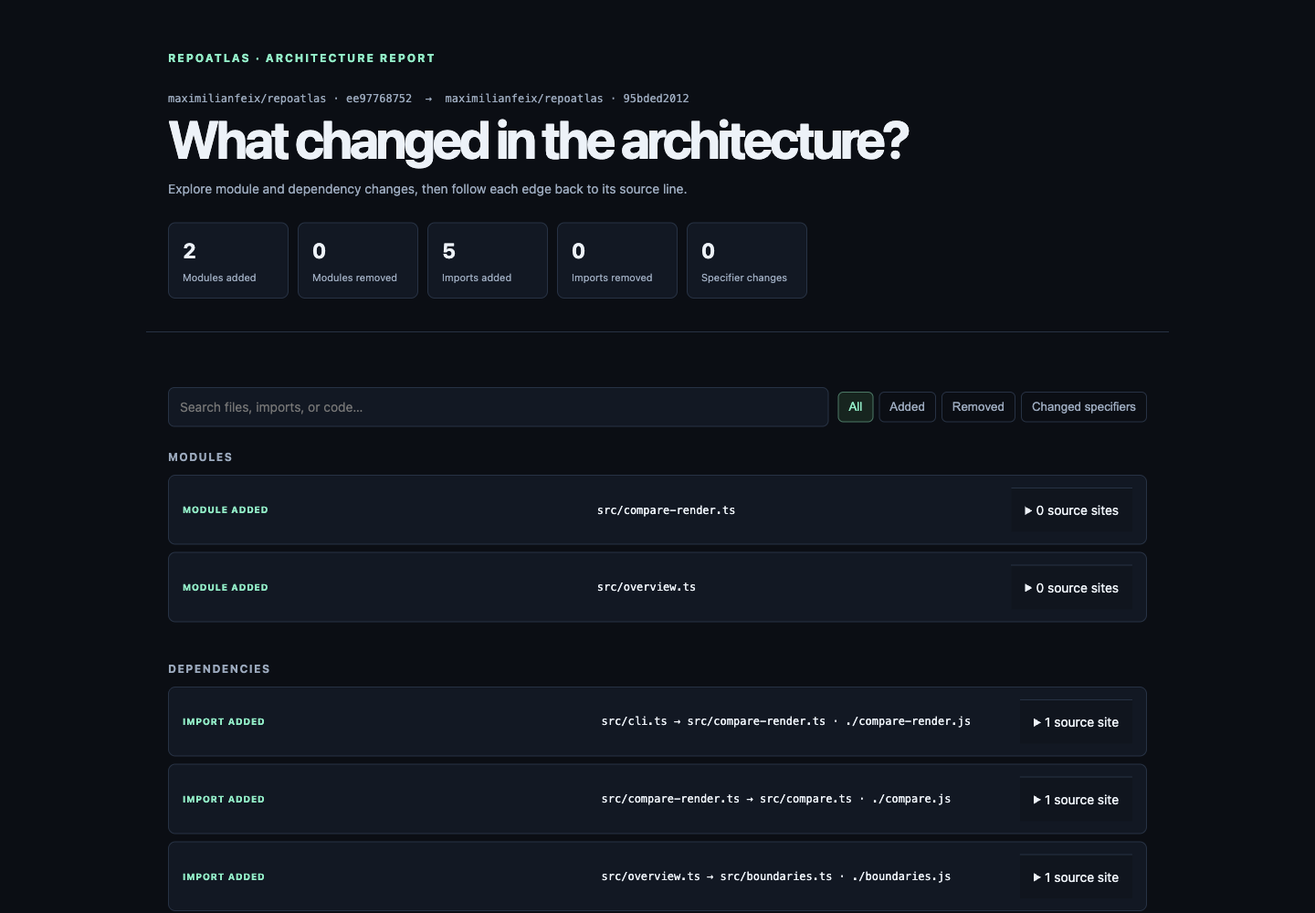
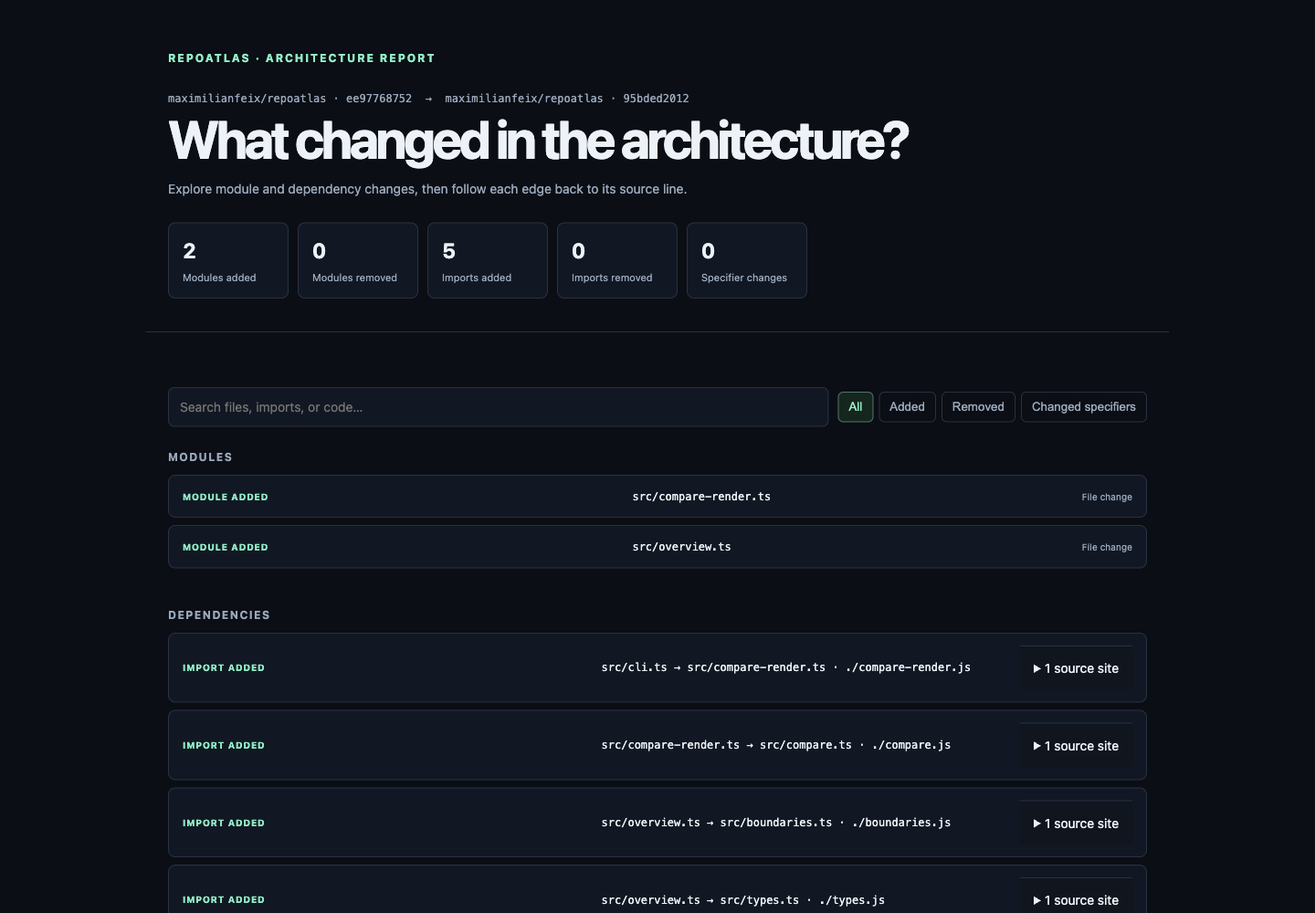
fix: label module-only changes in HTML diffs

diff --git a/docs/examples/repoatlas-v1-to-v2.html b/docs/examples/repoatlas-v1-to-v2.html
@@ -1,5 +1,5 @@
 <!doctype html><html lang="en"><head><meta charset="utf-8"><meta name="viewport" content="width=device-width,initial-scale=1"><meta name="color-scheme" content="dark"><title>Architecture diff · maximilianfeix/repoatlas</title><style>
-:root{color-scheme:dark;--bg:#0b0e14;--panel:#121823;--line:#273244;--text:#edf2f8;--muted:#9ba9bd;--mint:#92edc7;--red:#ff9b90;--amber:#e8c17b}*{box-sizing:border-box}body{margin:0;background:var(--bg);color:var(--text);font:14px/1.55 ui-sans-serif,system-ui,sans-serif}header,main{max-width:1120px;margin:auto;padding:32px 24px}header{padding-top:54px;border-bottom:1px solid var(--line)}.brand{color:var(--mint);font-size:12px;font-weight:750;letter-spacing:.16em;text-transform:uppercase}.eyebrow{margin:28px 0 8px;color:var(--muted);font:12px ui-monospace,monospace}h1{max-width:820px;margin:0;font-size:clamp(32px,6vw,58px);line-height:1.02;letter-spacing:-.055em}header p{color:var(--muted)}.stats{display:flex;gap:10px;flex-wrap:wrap;margin:26px 0 4px}.stat{padding:12px 15px;border:1px solid var(--line);border-radius:8px;background:var(--panel);min-width:132px}.stat strong{display:block;font-size:23px;font-variant-numeric:tabular-nums}.stat span{color:var(--muted);font-size:11px}.toolbar{display:flex;gap:10px;flex-wrap:wrap;align-items:center;margin:28px 0 18px}.toolbar input,.toolbar select{padding:10px 12px;border:1px solid var(--line);border-radius:7px;background:var(--panel);color:var(--text);font:inherit}.toolbar input{flex:1;min-width:220px}.filters{display:flex;gap:6px;flex-wrap:wrap}.filters button{padding:8px 11px;border:1px solid var(--line);border-radius:6px;background:transparent;color:var(--muted);cursor:pointer}.filters button[aria-pressed=true]{border-color:#4c7966;background:#17251f;color:var(--mint)}.section{margin:24px 0 42px}.section h2{font-size:12px;color:var(--muted);letter-spacing:.12em;text-transform:uppercase}.change-list{display:grid;gap:8px}.change{display:grid;grid-template-columns:minmax(180px,1fr) minmax(150px,1fr) auto;gap:14px;align-items:center;padding:13px 15px;border:1px solid var(--line);border-radius:8px;background:var(--panel)}.change code,.source code{font:12px/1.6 ui-monospace,SFMono-Regular,monospace;overflow-wrap:anywhere}.change a{color:var(--mint);text-decoration:none}.change a:hover{text-decoration:underline}.tag{font-size:10px;font-weight:750;letter-spacing:.08em;text-transform:uppercase;color:var(--mint)}.tag.removed{color:var(--red)}.tag.changed{color:var(--amber)}details{border-top:1px solid var(--line);padding:13px 15px;margin:0;background:#10151e}details summary{cursor:pointer;color:var(--text)}.source{display:grid;grid-template-columns:minmax(0,1fr) auto;gap:12px;align-items:start;padding:10px 0;border-bottom:1px solid #222b39}.source a{color:var(--mint);font-size:12px}.source pre{margin:6px 0 0;padding:10px;border-radius:5px;background:#080b10;color:#cfe8dc;white-space:pre-wrap;overflow-wrap:anywhere;font:11px/1.6 ui-monospace,monospace}.empty{padding:24px;border:1px dashed var(--line);border-radius:8px;color:var(--muted)}footer{max-width:1120px;margin:auto;padding:0 24px 32px;color:var(--muted);font-size:12px}@media(max-width:650px){header,main{padding-left:16px;padding-right:16px}.change{grid-template-columns:1fr auto;gap:5px}.change .relation{grid-column:1/-1;grid-row:2}.source{grid-template-columns:1fr}.stat{min-width:calc(50% - 5px)}}
+:root{color-scheme:dark;--bg:#0b0e14;--panel:#121823;--line:#273244;--text:#edf2f8;--muted:#9ba9bd;--mint:#92edc7;--red:#ff9b90;--amber:#e8c17b}*{box-sizing:border-box}body{margin:0;background:var(--bg);color:var(--text);font:14px/1.55 ui-sans-serif,system-ui,sans-serif}header,main{max-width:1120px;margin:auto;padding:32px 24px}header{padding-top:54px;border-bottom:1px solid var(--line)}.brand{color:var(--mint);font-size:12px;font-weight:750;letter-spacing:.16em;text-transform:uppercase}.eyebrow{margin:28px 0 8px;color:var(--muted);font:12px ui-monospace,monospace}h1{max-width:820px;margin:0;font-size:clamp(32px,6vw,58px);line-height:1.02;letter-spacing:-.055em}header p{color:var(--muted)}.stats{display:flex;gap:10px;flex-wrap:wrap;margin:26px 0 4px}.stat{padding:12px 15px;border:1px solid var(--line);border-radius:8px;background:var(--panel);min-width:132px}.stat strong{display:block;font-size:23px;font-variant-numeric:tabular-nums}.stat span{color:var(--muted);font-size:11px}.toolbar{display:flex;gap:10px;flex-wrap:wrap;align-items:center;margin:28px 0 18px}.toolbar input,.toolbar select{padding:10px 12px;border:1px solid var(--line);border-radius:7px;background:var(--panel);color:var(--text);font:inherit}.toolbar input{flex:1;min-width:220px}.filters{display:flex;gap:6px;flex-wrap:wrap}.filters button{padding:8px 11px;border:1px solid var(--line);border-radius:6px;background:transparent;color:var(--muted);cursor:pointer}.filters button[aria-pressed=true]{border-color:#4c7966;background:#17251f;color:var(--mint)}.section{margin:24px 0 42px}.section h2{font-size:12px;color:var(--muted);letter-spacing:.12em;text-transform:uppercase}.change-list{display:grid;gap:8px}.change{display:grid;grid-template-columns:minmax(180px,1fr) minmax(150px,1fr) auto;gap:14px;align-items:center;padding:13px 15px;border:1px solid var(--line);border-radius:8px;background:var(--panel)}.change code,.source code{font:12px/1.6 ui-monospace,SFMono-Regular,monospace;overflow-wrap:anywhere}.change a{color:var(--mint);text-decoration:none}.change a:hover{text-decoration:underline}.tag{font-size:10px;font-weight:750;letter-spacing:.08em;text-transform:uppercase;color:var(--mint)}.tag.removed{color:var(--red)}.tag.changed{color:var(--amber)}.change-meta{font-size:10px;color:var(--muted);text-align:right}details{border-top:1px solid var(--line);padding:13px 15px;margin:0;background:#10151e}details summary{cursor:pointer;color:var(--text)}.source{display:grid;grid-template-columns:minmax(0,1fr) auto;gap:12px;align-items:start;padding:10px 0;border-bottom:1px solid #222b39}.source a{color:var(--mint);font-size:12px}.source pre{margin:6px 0 0;padding:10px;border-radius:5px;background:#080b10;color:#cfe8dc;white-space:pre-wrap;overflow-wrap:anywhere;font:11px/1.6 ui-monospace,monospace}.empty{padding:24px;border:1px dashed var(--line);border-radius:8px;color:var(--muted)}footer{max-width:1120px;margin:auto;padding:0 24px 32px;color:var(--muted);font-size:12px}@media(max-width:650px){header,main{padding-left:16px;padding-right:16px}.change{grid-template-columns:1fr auto;gap:5px}.change .relation{grid-column:1/-1;grid-row:2}.source{grid-template-columns:1fr}.stat{min-width:calc(50% - 5px)}}
 </style></head><body><header><div class="brand">RepoAtlas · Architecture report</div><div class="eyebrow">maximilianfeix/repoatlas · ee97768752 &nbsp;→&nbsp; maximilianfeix/repoatlas · 95bded2012</div><h1>What changed in the architecture?</h1><p>Explore module and dependency changes, then follow each edge back to its source line.</p><div class="stats" id="stats"></div></header><main><div class="toolbar"><input id="search" type="search" aria-label="Search architecture changes" placeholder="Search files, imports, or code…"><div class="filters" role="group" aria-label="Filter changes"><button data-filter="all" aria-pressed="true">All</button><button data-filter="added">Added</button><button data-filter="removed">Removed</button><button data-filter="changed">Changed specifiers</button></div></div><div id="results" aria-live="polite"></div></main><footer>Generated by RepoAtlas · Self-contained HTML · No tracking or network requests</footer><script type="application/json" id="diff-data">{"base":{"name":"maximilianfeix/repoatlas","repository":"https://github.com/maximilianfeix/repoatlas","commit":"ee977687527b806925ff2a31f2311dce65d320ad"},"head":{"name":"maximilianfeix/repoatlas","repository":"https://github.com/maximilianfeix/repoatlas","commit":"95bded201295c1c4b4e2330263fc26060c641073"},"modules":{"added":["src/compare-render.ts","src/overview.ts"],"removed":[]},"dependencies":{"added":[{"source":"src/cli.ts","target":"src/compare-render.ts","specifier":"./compare-render.js","kind":"import","line":11,"code":"import { renderComparisonHtml } from './compare-render.js';","url":"https://github.com/maximilianfeix/repoatlas/blob/95bded201295c1c4b4e2330263fc26060c641073/src/cli.ts#L11","resolution":"internal"},{"source":"src/compare-render.ts","target":"src/compare.ts","specifier":"./compare.js","kind":"type","line":1,"code":"import type { AtlasComparison } from './compare.js';","url":"https://github.com/maximilianfeix/repoatlas/blob/95bded201295c1c4b4e2330263fc26060c641073/src/compare-render.ts#L1","resolution":"internal"},{"source":"src/overview.ts","target":"src/boundaries.ts","specifier":"./boundaries.js","kind":"import","line":1,"code":"import { buildBoundaryMatrix, type BoundaryCell } from './boundaries.js';","url":"https://github.com/maximilianfeix/repoatlas/blob/95bded201295c1c4b4e2330263fc26060c641073/src/overview.ts#L1","resolution":"internal"},{"source":"src/overview.ts","target":"src/types.ts","specifier":"./types.js","kind":"type","line":2,"code":"import type { Edge, Module } from './types.js';","url":"https://github.com/maximilianfeix/repoatlas/blob/95bded201295c1c4b4e2330263fc26060c641073/src/overview.ts#L2","resolution":"internal"},{"source":"src/ui.ts","target":"src/overview.ts","specifier":"./overview.js","kind":"import","line":4,"code":"import { buildArchitectureOverview } from './overview.js';","url":"https://github.com/maximilianfeix/repoatlas/blob/95bded201295c1c4b4e2330263fc26060c641073/src/ui.ts#L4","resolution":"internal"}],"removed":[],"changedSpecifier":[]}}</script><script>
-const data=JSON.parse(document.getElementById('diff-data').textContent);const stats=document.getElementById('stats'),results=document.getElementById('results'),search=document.getElementById('search');let filter='all';const groups=[['Modules added',data.modules.added.length],['Modules removed',data.modules.removed.length],['Imports added',data.dependencies.added.length],['Imports removed',data.dependencies.removed.length],['Specifier changes',data.dependencies.changedSpecifier.length]];for(const [label,count] of groups){const card=document.createElement('div');card.className='stat';const n=document.createElement('strong');n.textContent=count;const caption=document.createElement('span');caption.textContent=label;card.append(n,caption);stats.append(card)}function node(tag,text,cls){const item=document.createElement(tag);if(text!==undefined)item.textContent=text;if(cls)item.className=cls;return item}function source(edge,label){const item=node('div',undefined,'source'),body=node('div'),site=node('code',edge.source+':'+edge.line),code=node('pre',edge.code);body.append(site,code);item.append(body);if(edge.url&&edge.url.startsWith("https://github.com/")){const link=node('a','View source');link.href=edge.url;link.target='_blank';link.rel='noopener noreferrer';item.append(link)}else item.append(node('span',''));return item}function change(type,title,relation,edges){const row=node('article',undefined,'change');row.dataset.type=type;row.dataset.search=(title+' '+relation+' '+edges.map(edge=>edge.source+' '+edge.target+' '+edge.specifier+' '+edge.code).join(' ')).toLowerCase();row.append(node('span',title,'tag '+type),node('code',relation,'relation'));const details=document.createElement('details'),summary=node('summary',edges.length+' source '+(edges.length===1?'site':'sites'));details.append(summary);for(const edge of edges)details.append(source(edge));row.append(details);return row}function render(){results.replaceChildren();const sections=[];const add=(title,items)=>{if(items.length)sections.push([title,items])};const moduleItems=[];for(const id of data.modules.added)moduleItems.push(change('added','Module added',id,[]));for(const id of data.modules.removed)moduleItems.push(change('removed','Module removed',id,[]));add('Modules',moduleItems);const depItems=[];for(const edge of data.dependencies.added)depItems.push(change('added','Import added',edge.source+' → '+edge.target+' · '+edge.specifier,[edge]));for(const edge of data.dependencies.removed)depItems.push(change('removed','Import removed',edge.source+' → '+edge.target+' · '+edge.specifier,[edge]));for(const pair of data.dependencies.changedSpecifier)depItems.push(change('changed','Specifier changed',pair.before.source+' → '+pair.after.target+' · '+pair.before.specifier+' → '+pair.after.specifier,[pair.before,pair.after]));add('Dependencies',depItems);let visible=0;for(const [title,items] of sections){const matching=items.filter(item=>(filter==='all'||item.dataset.type===filter)&&item.dataset.search.includes(search.value.toLowerCase()));if(!matching.length)continue;visible+=matching.length;const section=node('section',undefined,'section');section.append(node('h2',title));const list=node('div',undefined,'change-list');list.append(...matching);section.append(list);results.append(section)}if(!visible)results.append(node('div','No changes match this filter.','empty'))}for(const button of document.querySelectorAll('[data-filter]'))button.addEventListener('click',()=>{filter=button.dataset.filter;for(const item of document.querySelectorAll('[data-filter]'))item.setAttribute('aria-pressed',String(item===button));render()});search.addEventListener('input',render);render();
+const data=JSON.parse(document.getElementById('diff-data').textContent);const stats=document.getElementById('stats'),results=document.getElementById('results'),search=document.getElementById('search');let filter='all';const groups=[['Modules added',data.modules.added.length],['Modules removed',data.modules.removed.length],['Imports added',data.dependencies.added.length],['Imports removed',data.dependencies.removed.length],['Specifier changes',data.dependencies.changedSpecifier.length]];for(const [label,count] of groups){const card=document.createElement('div');card.className='stat';const n=document.createElement('strong');n.textContent=count;const caption=document.createElement('span');caption.textContent=label;card.append(n,caption);stats.append(card)}function node(tag,text,cls){const item=document.createElement(tag);if(text!==undefined)item.textContent=text;if(cls)item.className=cls;return item}function source(edge,label){const item=node('div',undefined,'source'),body=node('div'),site=node('code',edge.source+':'+edge.line),code=node('pre',edge.code);body.append(site,code);item.append(body);if(edge.url&&edge.url.startsWith("https://github.com/")){const link=node('a','View source');link.href=edge.url;link.target='_blank';link.rel='noopener noreferrer';item.append(link)}else item.append(node('span',''));return item}function change(type,title,relation,edges){const row=node('article',undefined,'change');row.dataset.type=type;row.dataset.search=(title+' '+relation+' '+edges.map(edge=>edge.source+' '+edge.target+' '+edge.specifier+' '+edge.code).join(' ')).toLowerCase();row.append(node('span',title,'tag '+type),node('code',relation,'relation'));if(edges.length){const details=document.createElement('details'),summary=node('summary',edges.length+' source '+(edges.length===1?'site':'sites'));details.append(summary);for(const edge of edges)details.append(source(edge));row.append(details)}else row.append(node('span','File change','change-meta'));return row}function render(){results.replaceChildren();const sections=[];const add=(title,items)=>{if(items.length)sections.push([title,items])};const moduleItems=[];for(const id of data.modules.added)moduleItems.push(change('added','Module added',id,[]));for(const id of data.modules.removed)moduleItems.push(change('removed','Module removed',id,[]));add('Modules',moduleItems);const depItems=[];for(const edge of data.dependencies.added)depItems.push(change('added','Import added',edge.source+' → '+edge.target+' · '+edge.specifier,[edge]));for(const edge of data.dependencies.removed)depItems.push(change('removed','Import removed',edge.source+' → '+edge.target+' · '+edge.specifier,[edge]));for(const pair of data.dependencies.changedSpecifier)depItems.push(change('changed','Specifier changed',pair.before.source+' → '+pair.after.target+' · '+pair.before.specifier+' → '+pair.after.specifier,[pair.before,pair.after]));add('Dependencies',depItems);let visible=0;for(const [title,items] of sections){const matching=items.filter(item=>(filter==='all'||item.dataset.type===filter)&&item.dataset.search.includes(search.value.toLowerCase()));if(!matching.length)continue;visible+=matching.length;const section=node('section',undefined,'section');section.append(node('h2',title));const list=node('div',undefined,'change-list');list.append(...matching);section.append(list);results.append(section)}if(!visible)results.append(node('div','No changes match this filter.','empty'))}for(const button of document.querySelectorAll('[data-filter]'))button.addEventListener('click',()=>{filter=button.dataset.filter;for(const item of document.querySelectorAll('[data-filter]'))item.setAttribute('aria-pressed',String(item===button));render()});search.addEventListener('input',render);render();
 </script></body></html>

diff --git a/src/compare-render.ts b/src/compare-render.ts
@@ -7,8 +7,8 @@ const escapeHtml=(value:string)=>value.replace(/&/g,'&amp;').replace(/</g,'&lt;'
 export function renderComparisonHtml(comparison:AtlasComparison):string {
   const data=escapeJson(comparison);
   return `<!doctype html><html lang="en"><head><meta charset="utf-8"><meta name="viewport" content="width=device-width,initial-scale=1"><meta name="color-scheme" content="dark"><title>Architecture diff · ${escapeHtml(comparison.head.name)}</title><style>
-:root{color-scheme:dark;--bg:#0b0e14;--panel:#121823;--line:#273244;--text:#edf2f8;--muted:#9ba9bd;--mint:#92edc7;--red:#ff9b90;--amber:#e8c17b}*{box-sizing:border-box}body{margin:0;background:var(--bg);color:var(--text);font:14px/1.55 ui-sans-serif,system-ui,sans-serif}header,main{max-width:1120px;margin:auto;padding:32px 24px}header{padding-top:54px;border-bottom:1px solid var(--line)}.brand{color:var(--mint);font-size:12px;font-weight:750;letter-spacing:.16em;text-transform:uppercase}.eyebrow{margin:28px 0 8px;color:var(--muted);font:12px ui-monospace,monospace}h1{max-width:820px;margin:0;font-size:clamp(32px,6vw,58px);line-height:1.02;letter-spacing:-.055em}header p{color:var(--muted)}.stats{display:flex;gap:10px;flex-wrap:wrap;margin:26px 0 4px}.stat{padding:12px 15px;border:1px solid var(--line);border-radius:8px;background:var(--panel);min-width:132px}.stat strong{display:block;font-size:23px;font-variant-numeric:tabular-nums}.stat span{color:var(--muted);font-size:11px}.toolbar{display:flex;gap:10px;flex-wrap:wrap;align-items:center;margin:28px 0 18px}.toolbar input,.toolbar select{padding:10px 12px;border:1px solid var(--line);border-radius:7px;background:var(--panel);color:var(--text);font:inherit}.toolbar input{flex:1;min-width:220px}.filters{display:flex;gap:6px;flex-wrap:wrap}.filters button{padding:8px 11px;border:1px solid var(--line);border-radius:6px;background:transparent;color:var(--muted);cursor:pointer}.filters button[aria-pressed=true]{border-color:#4c7966;background:#17251f;color:var(--mint)}.section{margin:24px 0 42px}.section h2{font-size:12px;color:var(--muted);letter-spacing:.12em;text-transform:uppercase}.change-list{display:grid;gap:8px}.change{display:grid;grid-template-columns:minmax(180px,1fr) minmax(150px,1fr) auto;gap:14px;align-items:center;padding:13px 15px;border:1px solid var(--line);border-radius:8px;background:var(--panel)}.change code,.source code{font:12px/1.6 ui-monospace,SFMono-Regular,monospace;overflow-wrap:anywhere}.change a{color:var(--mint);text-decoration:none}.change a:hover{text-decoration:underline}.tag{font-size:10px;font-weight:750;letter-spacing:.08em;text-transform:uppercase;color:var(--mint)}.tag.removed{color:var(--red)}.tag.changed{color:var(--amber)}details{border-top:1px solid var(--line);padding:13px 15px;margin:0;background:#10151e}details summary{cursor:pointer;color:var(--text)}.source{display:grid;grid-template-columns:minmax(0,1fr) auto;gap:12px;align-items:start;padding:10px 0;border-bottom:1px solid #222b39}.source a{color:var(--mint);font-size:12px}.source pre{margin:6px 0 0;padding:10px;border-radius:5px;background:#080b10;color:#cfe8dc;white-space:pre-wrap;overflow-wrap:anywhere;font:11px/1.6 ui-monospace,monospace}.empty{padding:24px;border:1px dashed var(--line);border-radius:8px;color:var(--muted)}footer{max-width:1120px;margin:auto;padding:0 24px 32px;color:var(--muted);font-size:12px}@media(max-width:650px){header,main{padding-left:16px;padding-right:16px}.change{grid-template-columns:1fr auto;gap:5px}.change .relation{grid-column:1/-1;grid-row:2}.source{grid-template-columns:1fr}.stat{min-width:calc(50% - 5px)}}
+:root{color-scheme:dark;--bg:#0b0e14;--panel:#121823;--line:#273244;--text:#edf2f8;--muted:#9ba9bd;--mint:#92edc7;--red:#ff9b90;--amber:#e8c17b}*{box-sizing:border-box}body{margin:0;background:var(--bg);color:var(--text);font:14px/1.55 ui-sans-serif,system-ui,sans-serif}header,main{max-width:1120px;margin:auto;padding:32px 24px}header{padding-top:54px;border-bottom:1px solid var(--line)}.brand{color:var(--mint);font-size:12px;font-weight:750;letter-spacing:.16em;text-transform:uppercase}.eyebrow{margin:28px 0 8px;color:var(--muted);font:12px ui-monospace,monospace}h1{max-width:820px;margin:0;font-size:clamp(32px,6vw,58px);line-height:1.02;letter-spacing:-.055em}header p{color:var(--muted)}.stats{display:flex;gap:10px;flex-wrap:wrap;margin:26px 0 4px}.stat{padding:12px 15px;border:1px solid var(--line);border-radius:8px;background:var(--panel);min-width:132px}.stat strong{display:block;font-size:23px;font-variant-numeric:tabular-nums}.stat span{color:var(--muted);font-size:11px}.toolbar{display:flex;gap:10px;flex-wrap:wrap;align-items:center;margin:28px 0 18px}.toolbar input,.toolbar select{padding:10px 12px;border:1px solid var(--line);border-radius:7px;background:var(--panel);color:var(--text);font:inherit}.toolbar input{flex:1;min-width:220px}.filters{display:flex;gap:6px;flex-wrap:wrap}.filters button{padding:8px 11px;border:1px solid var(--line);border-radius:6px;background:transparent;color:var(--muted);cursor:pointer}.filters button[aria-pressed=true]{border-color:#4c7966;background:#17251f;color:var(--mint)}.section{margin:24px 0 42px}.section h2{font-size:12px;color:var(--muted);letter-spacing:.12em;text-transform:uppercase}.change-list{display:grid;gap:8px}.change{display:grid;grid-template-columns:minmax(180px,1fr) minmax(150px,1fr) auto;gap:14px;align-items:center;padding:13px 15px;border:1px solid var(--line);border-radius:8px;background:var(--panel)}.change code,.source code{font:12px/1.6 ui-monospace,SFMono-Regular,monospace;overflow-wrap:anywhere}.change a{color:var(--mint);text-decoration:none}.change a:hover{text-decoration:underline}.tag{font-size:10px;font-weight:750;letter-spacing:.08em;text-transform:uppercase;color:var(--mint)}.tag.removed{color:var(--red)}.tag.changed{color:var(--amber)}.change-meta{font-size:10px;color:var(--muted);text-align:right}details{border-top:1px solid var(--line);padding:13px 15px;margin:0;background:#10151e}details summary{cursor:pointer;color:var(--text)}.source{display:grid;grid-template-columns:minmax(0,1fr) auto;gap:12px;align-items:start;padding:10px 0;border-bottom:1px solid #222b39}.source a{color:var(--mint);font-size:12px}.source pre{margin:6px 0 0;padding:10px;border-radius:5px;background:#080b10;color:#cfe8dc;white-space:pre-wrap;overflow-wrap:anywhere;font:11px/1.6 ui-monospace,monospace}.empty{padding:24px;border:1px dashed var(--line);border-radius:8px;color:var(--muted)}footer{max-width:1120px;margin:auto;padding:0 24px 32px;color:var(--muted);font-size:12px}@media(max-width:650px){header,main{padding-left:16px;padding-right:16px}.change{grid-template-columns:1fr auto;gap:5px}.change .relation{grid-column:1/-1;grid-row:2}.source{grid-template-columns:1fr}.stat{min-width:calc(50% - 5px)}}
 </style></head><body><header><div class="brand">RepoAtlas · Architecture report</div><div class="eyebrow">${escapeHtml(comparison.base.name)} ${comparison.base.commit?`· ${escapeHtml(comparison.base.commit.slice(0,10))}`:''} &nbsp;→&nbsp; ${escapeHtml(comparison.head.name)} ${comparison.head.commit?`· ${escapeHtml(comparison.head.commit.slice(0,10))}`:''}</div><h1>What changed in the architecture?</h1><p>Explore module and dependency changes, then follow each edge back to its source line.</p><div class="stats" id="stats"></div></header><main><div class="toolbar"><input id="search" type="search" aria-label="Search architecture changes" placeholder="Search files, imports, or code…"><div class="filters" role="group" aria-label="Filter changes"><button data-filter="all" aria-pressed="true">All</button><button data-filter="added">Added</button><button data-filter="removed">Removed</button><button data-filter="changed">Changed specifiers</button></div></div><div id="results" aria-live="polite"></div></main><footer>Generated by RepoAtlas · Self-contained HTML · No tracking or network requests</footer><script type="application/json" id="diff-data">${data}</script><script>
-const data=JSON.parse(document.getElementById('diff-data').textContent);const stats=document.getElementById('stats'),results=document.getElementById('results'),search=document.getElementById('search');let filter='all';const groups=[['Modules added',data.modules.added.length],['Modules removed',data.modules.removed.length],['Imports added',data.dependencies.added.length],['Imports removed',data.dependencies.removed.length],['Specifier changes',data.dependencies.changedSpecifier.length]];for(const [label,count] of groups){const card=document.createElement('div');card.className='stat';const n=document.createElement('strong');n.textContent=count;const caption=document.createElement('span');caption.textContent=label;card.append(n,caption);stats.append(card)}function node(tag,text,cls){const item=document.createElement(tag);if(text!==undefined)item.textContent=text;if(cls)item.className=cls;return item}function source(edge,label){const item=node('div',undefined,'source'),body=node('div'),site=node('code',edge.source+':'+edge.line),code=node('pre',edge.code);body.append(site,code);item.append(body);if(edge.url&&edge.url.startsWith("https://github.com/")){const link=node('a','View source');link.href=edge.url;link.target='_blank';link.rel='noopener noreferrer';item.append(link)}else item.append(node('span',''));return item}function change(type,title,relation,edges){const row=node('article',undefined,'change');row.dataset.type=type;row.dataset.search=(title+' '+relation+' '+edges.map(edge=>edge.source+' '+edge.target+' '+edge.specifier+' '+edge.code).join(' ')).toLowerCase();row.append(node('span',title,'tag '+type),node('code',relation,'relation'));const details=document.createElement('details'),summary=node('summary',edges.length+' source '+(edges.length===1?'site':'sites'));details.append(summary);for(const edge of edges)details.append(source(edge));row.append(details);return row}function render(){results.replaceChildren();const sections=[];const add=(title,items)=>{if(items.length)sections.push([title,items])};const moduleItems=[];for(const id of data.modules.added)moduleItems.push(change('added','Module added',id,[]));for(const id of data.modules.removed)moduleItems.push(change('removed','Module removed',id,[]));add('Modules',moduleItems);const depItems=[];for(const edge of data.dependencies.added)depItems.push(change('added','Import added',edge.source+' → '+edge.target+' · '+edge.specifier,[edge]));for(const edge of data.dependencies.removed)depItems.push(change('removed','Import removed',edge.source+' → '+edge.target+' · '+edge.specifier,[edge]));for(const pair of data.dependencies.changedSpecifier)depItems.push(change('changed','Specifier changed',pair.before.source+' → '+pair.after.target+' · '+pair.before.specifier+' → '+pair.after.specifier,[pair.before,pair.after]));add('Dependencies',depItems);let visible=0;for(const [title,items] of sections){const matching=items.filter(item=>(filter==='all'||item.dataset.type===filter)&&item.dataset.search.includes(search.value.toLowerCase()));if(!matching.length)continue;visible+=matching.length;const section=node('section',undefined,'section');section.append(node('h2',title));const list=node('div',undefined,'change-list');list.append(...matching);section.append(list);results.append(section)}if(!visible)results.append(node('div','No changes match this filter.','empty'))}for(const button of document.querySelectorAll('[data-filter]'))button.addEventListener('click',()=>{filter=button.dataset.filter;for(const item of document.querySelectorAll('[data-filter]'))item.setAttribute('aria-pressed',String(item===button));render()});search.addEventListener('input',render);render();
+const data=JSON.parse(document.getElementById('diff-data').textContent);const stats=document.getElementById('stats'),results=document.getElementById('results'),search=document.getElementById('search');let filter='all';const groups=[['Modules added',data.modules.added.length],['Modules removed',data.modules.removed.length],['Imports added',data.dependencies.added.length],['Imports removed',data.dependencies.removed.length],['Specifier changes',data.dependencies.changedSpecifier.length]];for(const [label,count] of groups){const card=document.createElement('div');card.className='stat';const n=document.createElement('strong');n.textContent=count;const caption=document.createElement('span');caption.textContent=label;card.append(n,caption);stats.append(card)}function node(tag,text,cls){const item=document.createElement(tag);if(text!==undefined)item.textContent=text;if(cls)item.className=cls;return item}function source(edge,label){const item=node('div',undefined,'source'),body=node('div'),site=node('code',edge.source+':'+edge.line),code=node('pre',edge.code);body.append(site,code);item.append(body);if(edge.url&&edge.url.startsWith("https://github.com/")){const link=node('a','View source');link.href=edge.url;link.target='_blank';link.rel='noopener noreferrer';item.append(link)}else item.append(node('span',''));return item}function change(type,title,relation,edges){const row=node('article',undefined,'change');row.dataset.type=type;row.dataset.search=(title+' '+relation+' '+edges.map(edge=>edge.source+' '+edge.target+' '+edge.specifier+' '+edge.code).join(' ')).toLowerCase();row.append(node('span',title,'tag '+type),node('code',relation,'relation'));if(edges.length){const details=document.createElement('details'),summary=node('summary',edges.length+' source '+(edges.length===1?'site':'sites'));details.append(summary);for(const edge of edges)details.append(source(edge));row.append(details)}else row.append(node('span','File change','change-meta'));return row}function render(){results.replaceChildren();const sections=[];const add=(title,items)=>{if(items.length)sections.push([title,items])};const moduleItems=[];for(const id of data.modules.added)moduleItems.push(change('added','Module added',id,[]));for(const id of data.modules.removed)moduleItems.push(change('removed','Module removed',id,[]));add('Modules',moduleItems);const depItems=[];for(const edge of data.dependencies.added)depItems.push(change('added','Import added',edge.source+' → '+edge.target+' · '+edge.specifier,[edge]));for(const edge of data.dependencies.removed)depItems.push(change('removed','Import removed',edge.source+' → '+edge.target+' · '+edge.specifier,[edge]));for(const pair of data.dependencies.changedSpecifier)depItems.push(change('changed','Specifier changed',pair.before.source+' → '+pair.after.target+' · '+pair.before.specifier+' → '+pair.after.specifier,[pair.before,pair.after]));add('Dependencies',depItems);let visible=0;for(const [title,items] of sections){const matching=items.filter(item=>(filter==='all'||item.dataset.type===filter)&&item.dataset.search.includes(search.value.toLowerCase()));if(!matching.length)continue;visible+=matching.length;const section=node('section',undefined,'section');section.append(node('h2',title));const list=node('div',undefined,'change-list');list.append(...matching);section.append(list);results.append(section)}if(!visible)results.append(node('div','No changes match this filter.','empty'))}for(const button of document.querySelectorAll('[data-filter]'))button.addEventListener('click',()=>{filter=button.dataset.filter;for(const item of document.querySelectorAll('[data-filter]'))item.setAttribute('aria-pressed',String(item===button));render()});search.addEventListener('input',render);render();
 </script></body></html>`;
 }
